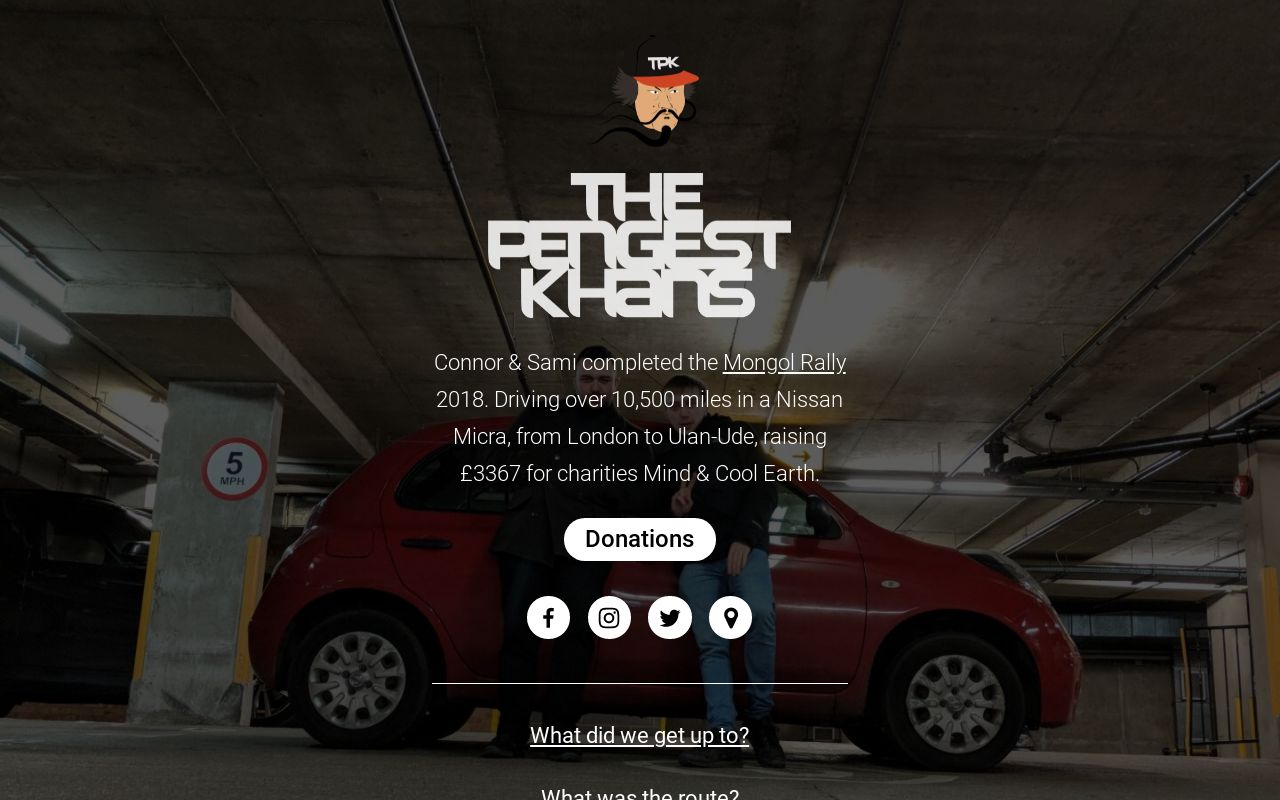
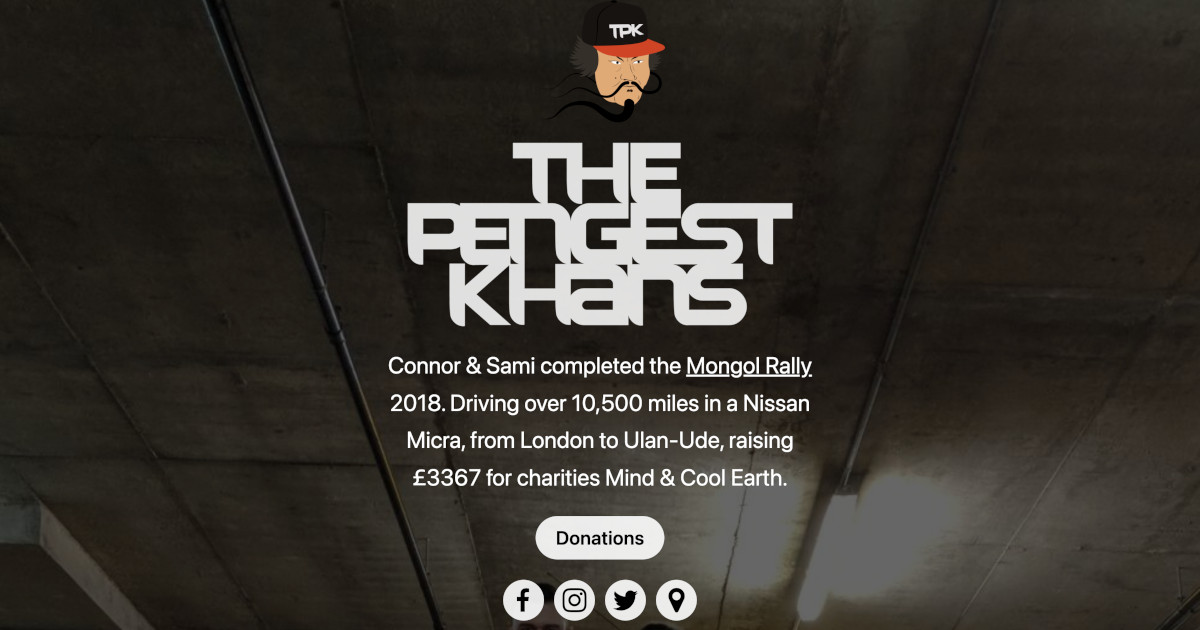
Fix social share image preview (#2)

diff --git a/index.html b/index.html
@@ -8,18 +8,15 @@
     <meta charset="utf-8">
     <meta name="viewport" content="width=device-width, initial-scale=1">
 
-    <meta name="description" content="Connor and Sami (The Pengest Khans) took on the Mongol Rally 2018.">
+    <meta name="description" content="Connor & Sami (The Pengest Khans) completed the Mongol Rally 2018.">
     <meta property="og:site_name" content="The Pengest Khans">
     <meta property="og:title" content="The Pengest Khans">
     <meta property="og:type" content="website">
-    <meta property="og:description" content="Connor and Sami (The Pengest Khans) took on the Mongol Rally 2018.">
-    <meta property="og:image" content="/card.jpg">
-    <meta property="og:image:type" content="image/jpeg">
-    <meta property="og:image:width" content="1280">
-    <meta property="og:image:height" content="800">
+    <meta property="og:description" content="Connor & Sami completed the Mongol Rally 2018. Driving over 10,500 miles in a Nissan Micra, from London to Ulan-Ude, raising £3367 for charities Mind & Cool Earth.">
+    <meta property="og:image" content="https://thepengestkhans.co.uk/card.jpg">
     <meta property="og:url" content="https://thepengestkhans.co.uk">
     <meta property="twitter:card" content="summary_large_image">
-    <meta name="description" content="Connor and Sami (The Pengest Khans) took on the Mongol Rally 2018.">
+    <meta name="description" content="Connor & Sami (The Pengest Khans) completed the Mongol Rally 2018.">
     <meta name="keywords" content="penghest khans, mongol rally 2018, mongol rally">
     <link rel="canonical" href="https://thepengestkhans.co.uk">
 
